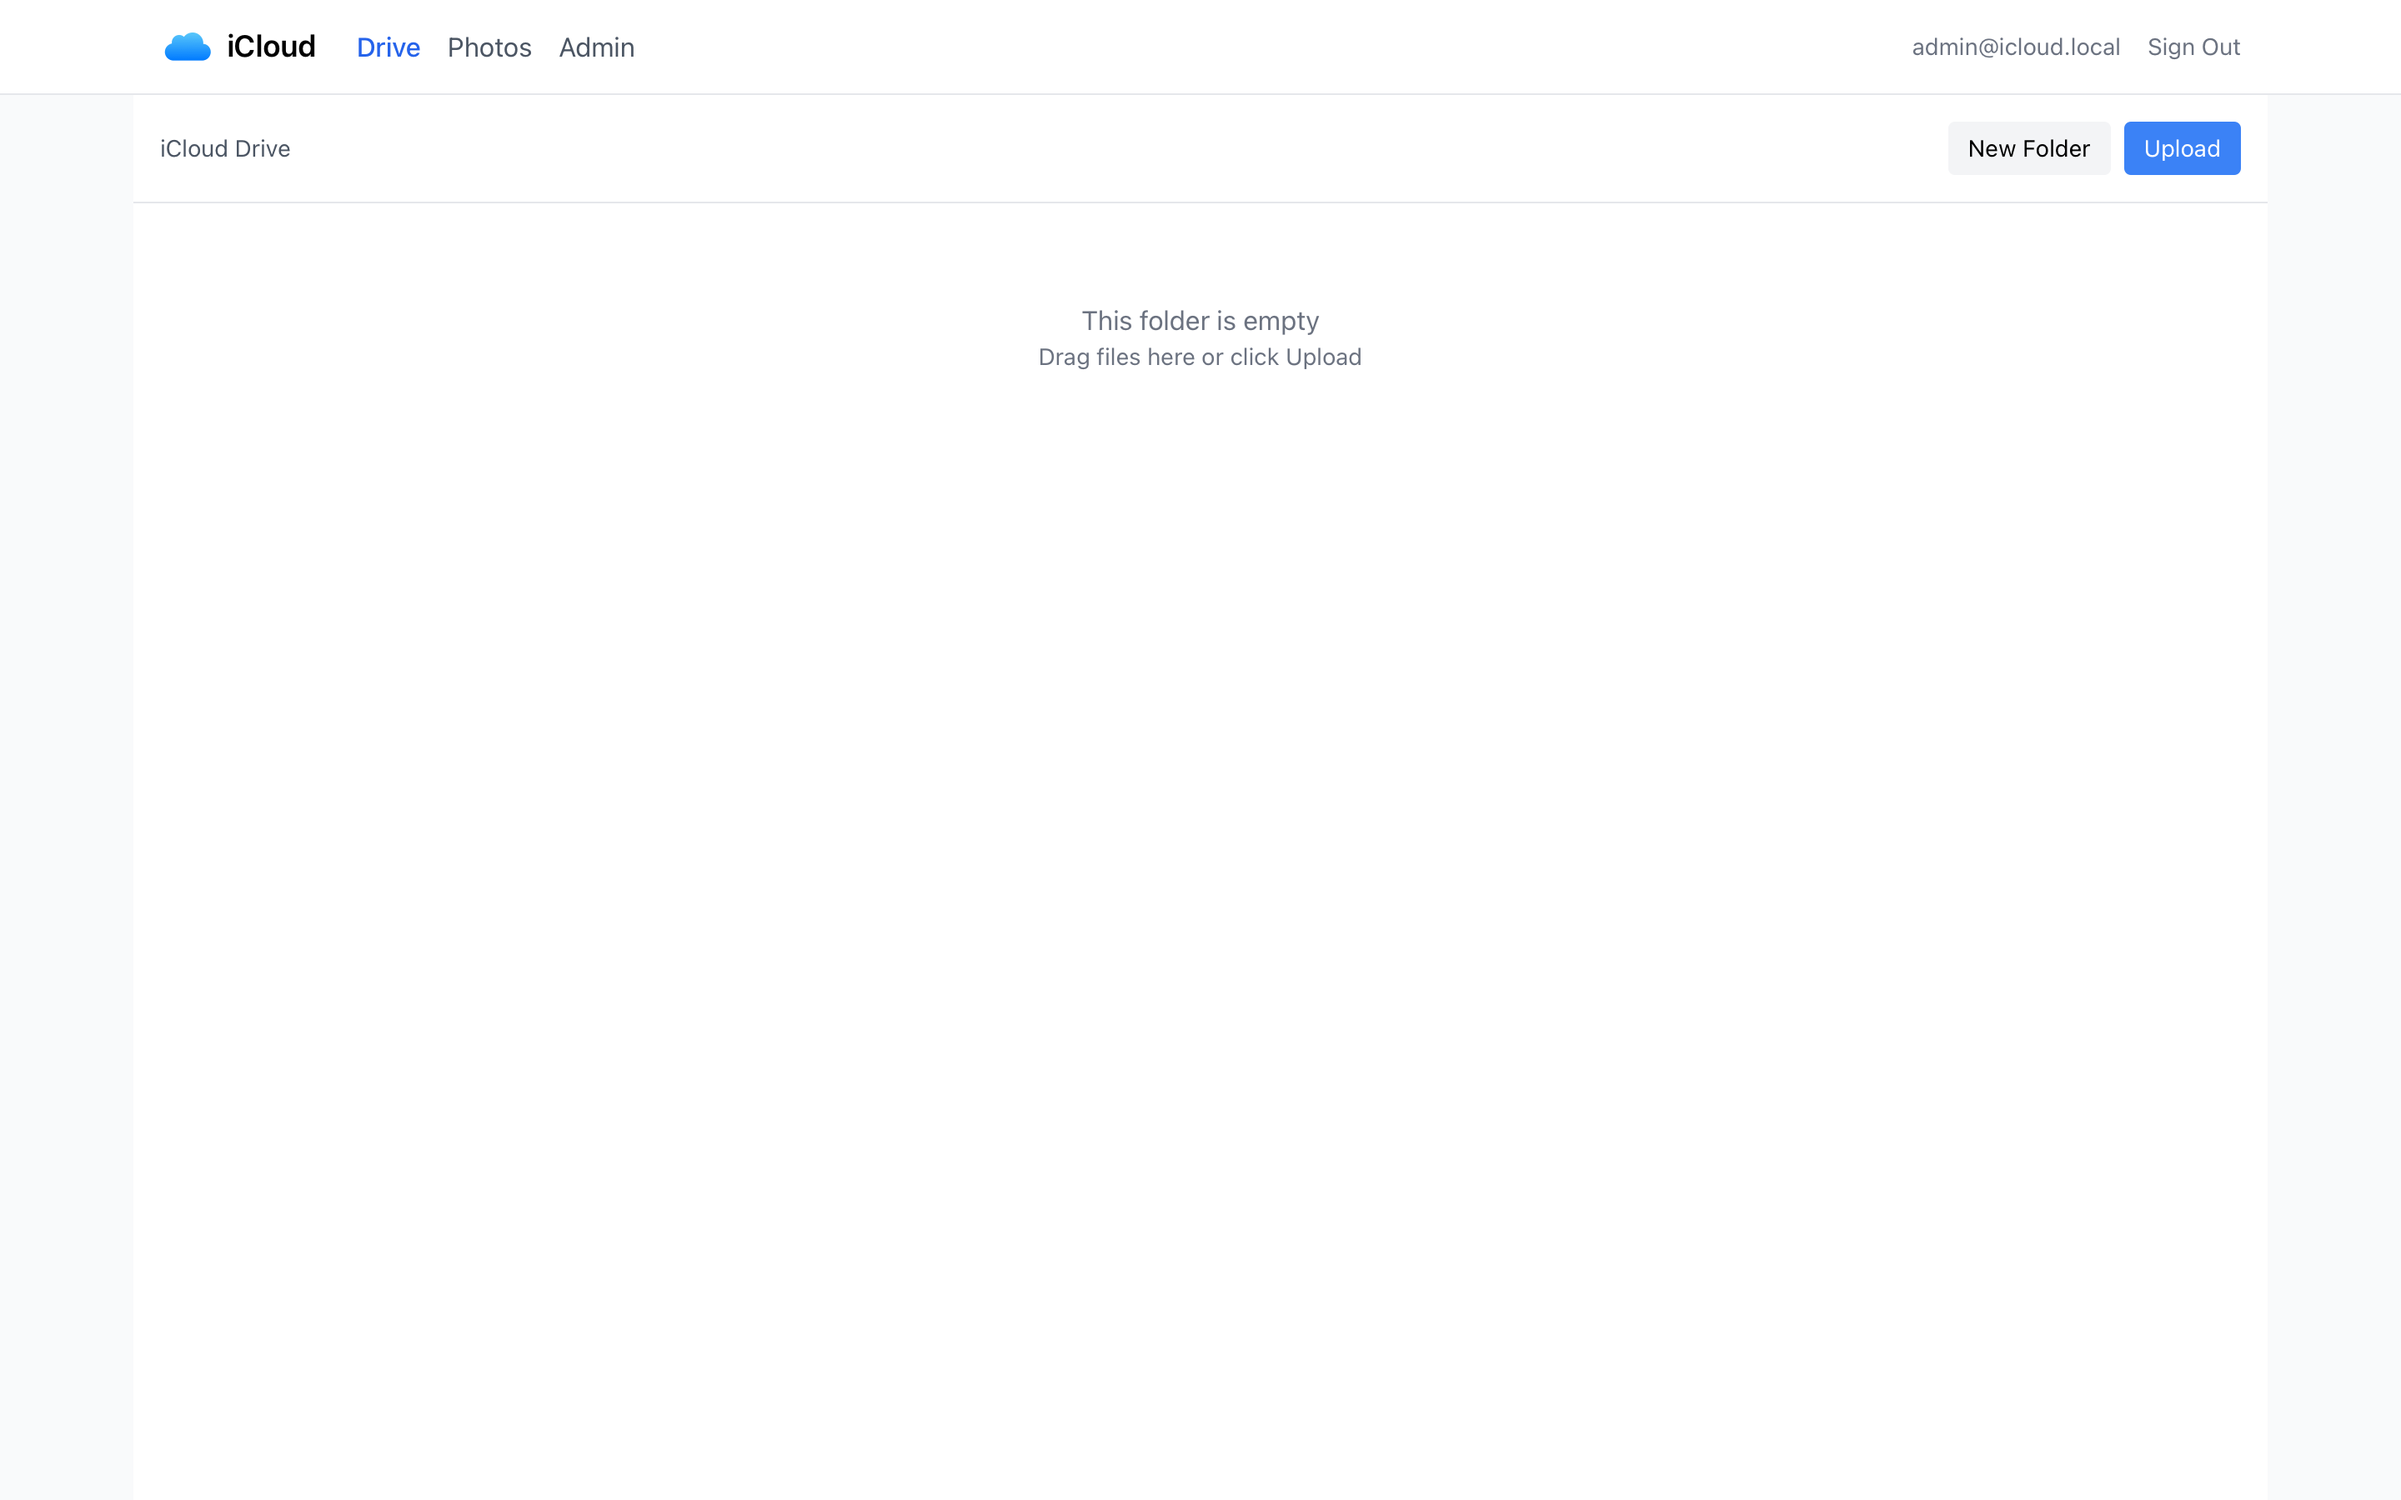
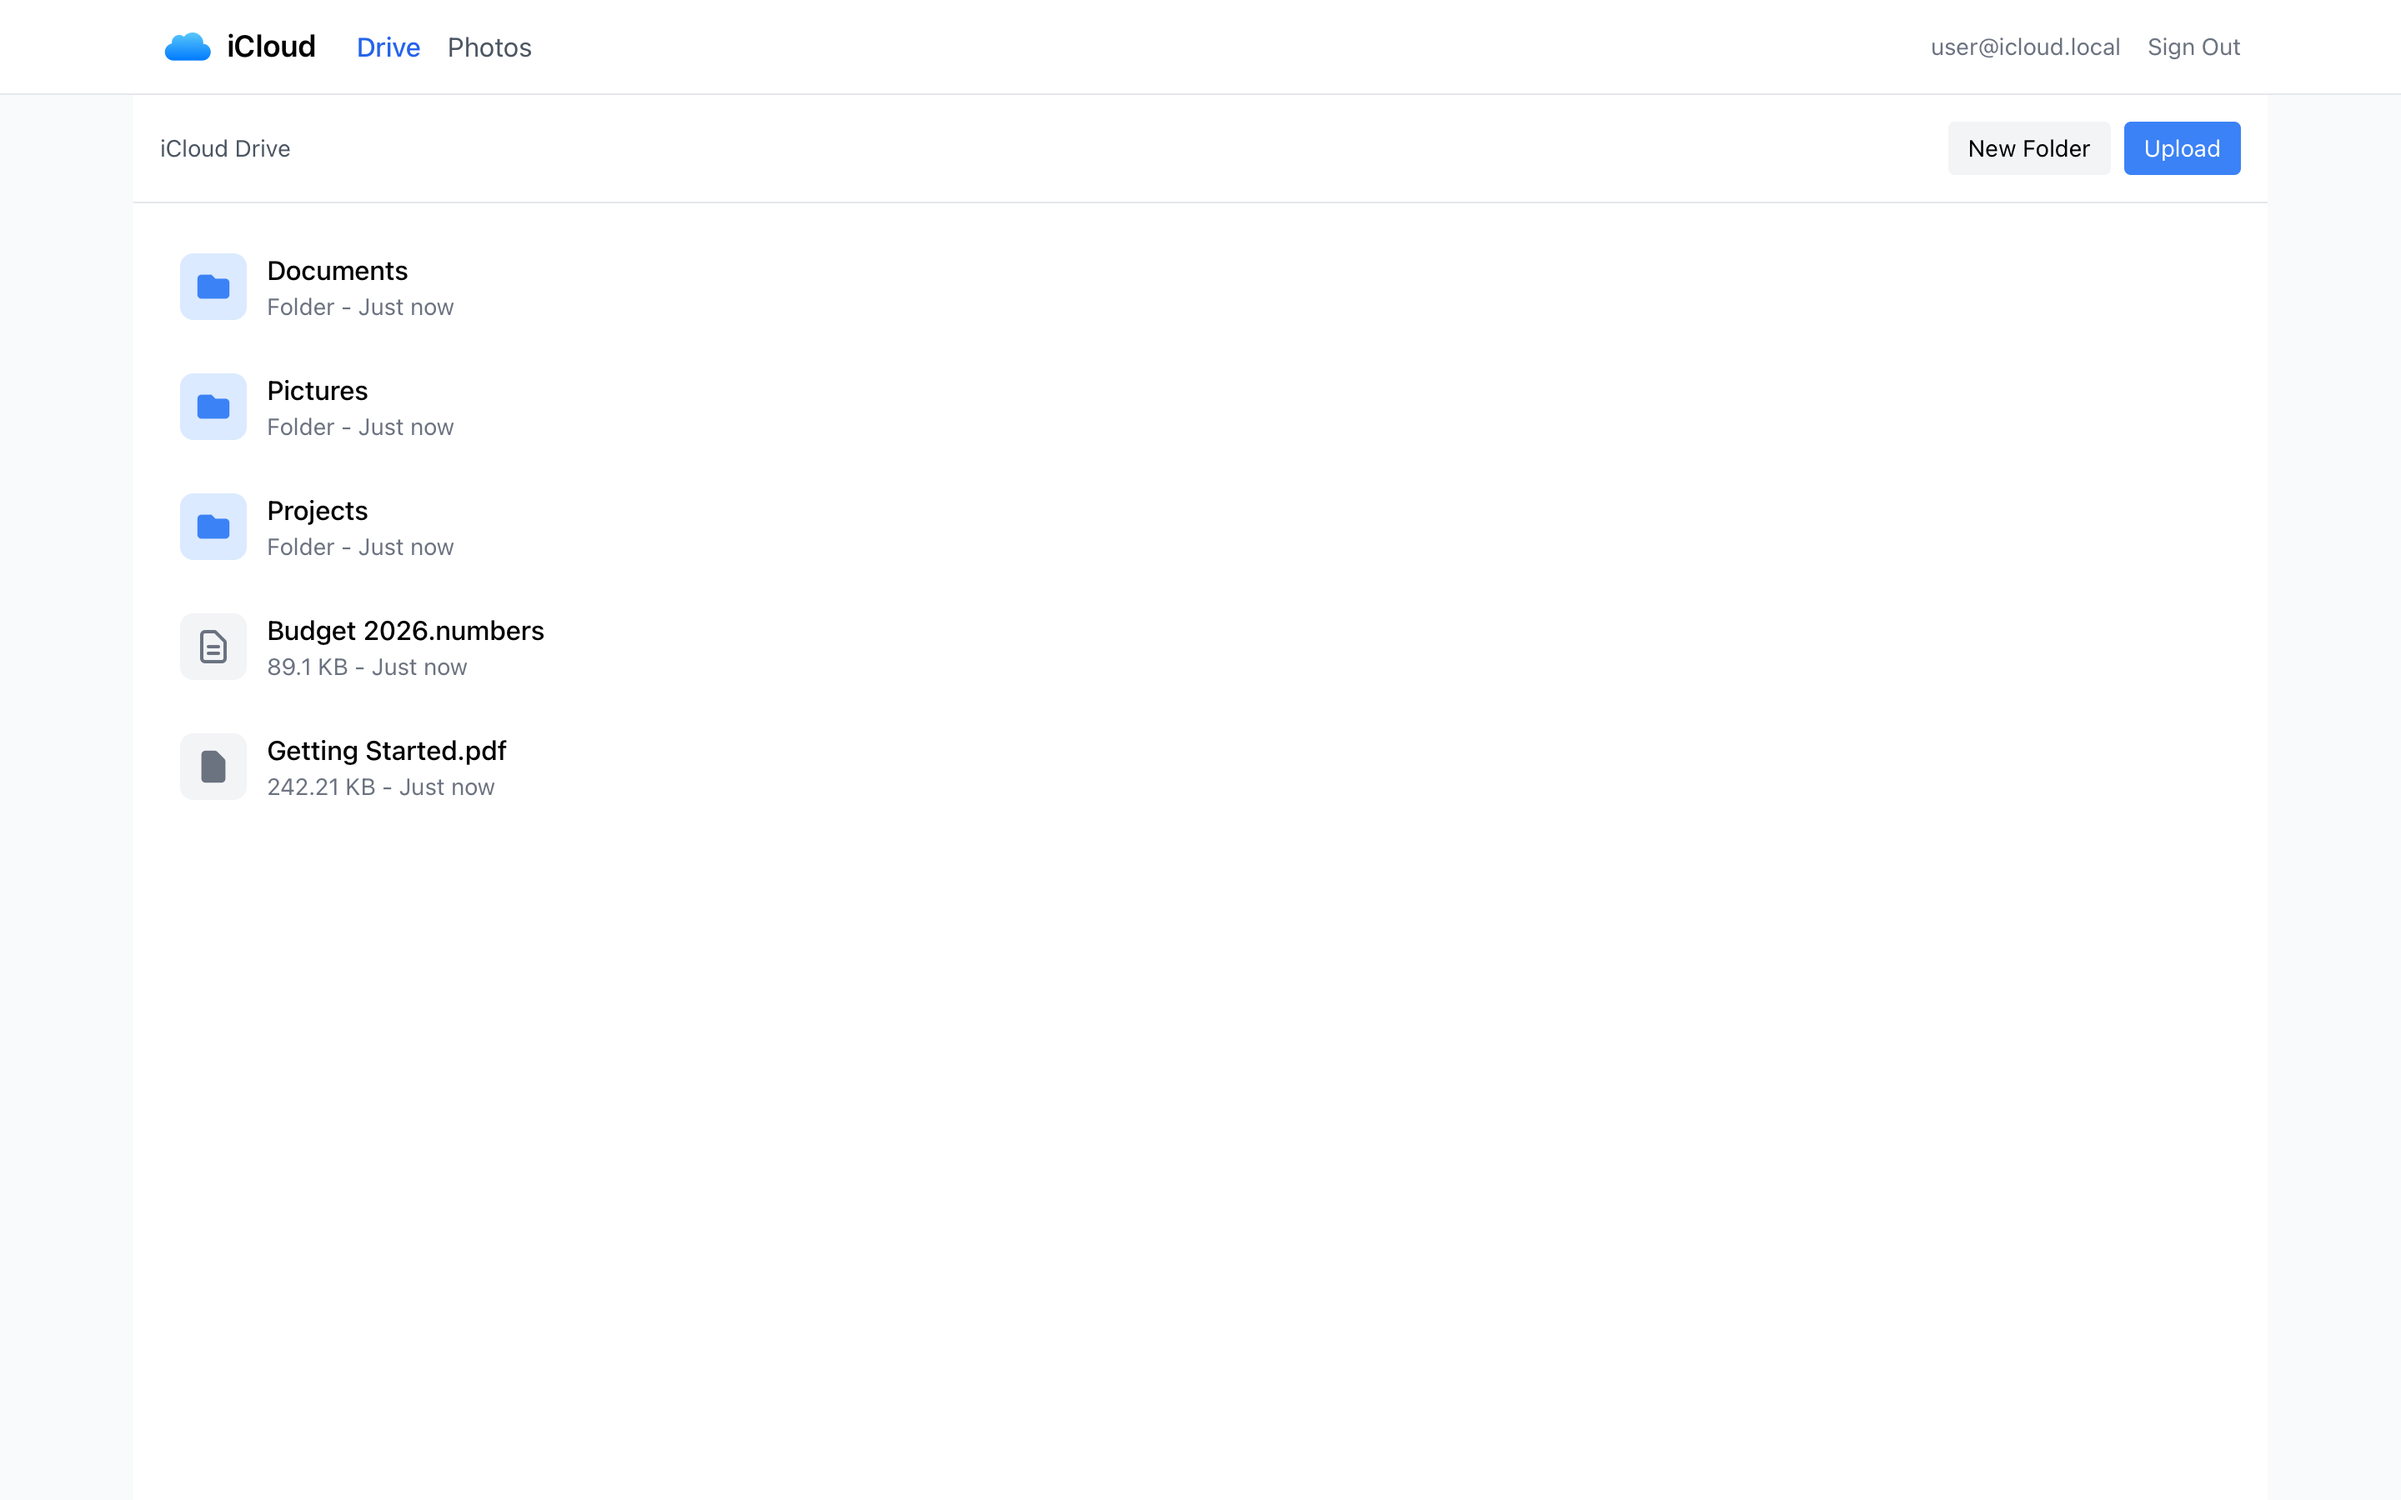
fixing more

diff --git a/icloud/backend/src/db/seed-photos.ts b/icloud/backend/src/db/seed-photos.ts
@@ -1,0 +1,139 @@
+/**
+ * Seeds a real photo library for the demo user.
+ *
+ * Photos can't be seeded from SQL alone: the API streams thumbnails/previews out
+ * of MinIO by object key, so a row whose `thumbnail_key` is an external URL just
+ * produces "Object name contains unsupported characters" and an empty grid. This
+ * seeder therefore does what an actual upload does — fetch the image bytes, run
+ * sharp to produce the 200x200 thumbnail and 1024x1024 preview, put all three
+ * derivatives in MinIO, and only then insert the row.
+ *
+ * Run with: npm run db:seed:photos
+ */
+import { randomUUID } from 'crypto';
+import fs from 'fs';
+import path from 'path';
+import { fileURLToPath } from 'url';
+import sharp from 'sharp';
+import { pool, minioClient } from '../db.js';
+
+const __dirname = path.dirname(fileURLToPath(import.meta.url));
+
+/**
+ * Applies the base SQL seed (users, folders, files) before seeding photos.
+ * Kept as one `db:seed` entry point because photos require MinIO objects and
+ * therefore cannot live in the .sql file — the harness runs a single seed step.
+ */
+async function applyBaseSeed(): Promise<void> {
+  const sqlPath = path.resolve(__dirname, '../../db-seed/base.sql');
+  if (!fs.existsSync(sqlPath)) {
+    console.warn('base.sql not found, skipping base seed');
+    return;
+  }
+  await pool.query(fs.readFileSync(sqlPath, 'utf-8'));
+  console.log('Base seed applied (users, folders, files).');
+}
+
+const PHOTOS_BUCKET = 'icloud-photos';
+const THUMBNAILS_BUCKET = 'icloud-thumbnails';
+
+/** Demo user that owns the seeded library (matches db-seed/seed.sql). */
+const USER_ID = 'b1ffcc00-0d1c-5f09-cc7e-7cc0ce491b22';
+
+interface SeedPhoto {
+  url: string;
+  daysAgo: number;
+  lat: number;
+  lng: number;
+  favorite: boolean;
+}
+
+const PHOTOS: SeedPhoto[] = [
+  { url: 'https://images.unsplash.com/photo-1506905925346-21bda4d32df4?w=1600', daysAgo: 2, lat: 46.5, lng: 8.0, favorite: true },
+  { url: 'https://images.unsplash.com/photo-1519681393784-d120267933ba?w=1600', daysAgo: 5, lat: 46.6, lng: 8.1, favorite: false },
+  { url: 'https://images.unsplash.com/photo-1439066615861-d1af74d74000?w=1600', daysAgo: 9, lat: 47.0, lng: 8.4, favorite: true },
+  { url: 'https://images.unsplash.com/photo-1441974231531-c6227db76b6e?w=1600', daysAgo: 14, lat: 45.9, lng: 7.7, favorite: false },
+  { url: 'https://images.unsplash.com/photo-1470071459604-3b5ec3a7fe05?w=1600', daysAgo: 21, lat: 46.2, lng: 7.9, favorite: false },
+  { url: 'https://images.unsplash.com/photo-1501785888041-af3ef285b470?w=1600', daysAgo: 30, lat: 46.8, lng: 8.3, favorite: true },
+  { url: 'https://images.unsplash.com/photo-1472214103451-9374bd1c798e?w=1600', daysAgo: 45, lat: 47.2, lng: 8.6, favorite: false },
+  { url: 'https://images.unsplash.com/photo-1418065460487-3e41a6c84dc5?w=1600', daysAgo: 60, lat: 46.4, lng: 7.5, favorite: false },
+  { url: 'https://images.unsplash.com/photo-1447752875215-b2761acb3c5d?w=1600', daysAgo: 75, lat: 46.1, lng: 8.2, favorite: false },
+  { url: 'https://images.unsplash.com/photo-1426604966848-d7adac402bff?w=1600', daysAgo: 90, lat: 45.7, lng: 7.3, favorite: true },
+  { url: 'https://images.unsplash.com/photo-1475924156734-496f6cac6ec1?w=1600', daysAgo: 110, lat: 46.9, lng: 8.8, favorite: false },
+  { url: 'https://images.unsplash.com/photo-1470252649378-9c29740c9fa8?w=1600', daysAgo: 130, lat: 46.3, lng: 7.8, favorite: false },
+];
+
+async function ensureBucket(name: string): Promise<void> {
+  if (!(await minioClient.bucketExists(name))) {
+    await minioClient.makeBucket(name, 'us-east-1');
+  }
+}
+
+async function seedPhotos(): Promise<void> {
+  const existing = await pool.query('SELECT 1 FROM photos WHERE user_id = $1 LIMIT 1', [USER_ID]);
+  if ((existing.rowCount ?? 0) > 0) {
+    console.log('Photos already seeded, skipping.');
+    return;
+  }
+
+  await ensureBucket(PHOTOS_BUCKET);
+  await ensureBucket(THUMBNAILS_BUCKET);
+
+  let seeded = 0;
+  for (const p of PHOTOS) {
+    try {
+      const res = await fetch(p.url);
+      if (!res.ok) {
+        console.warn(`  fetch failed (${res.status}) for ${p.url}`);
+        continue;
+      }
+      const original = Buffer.from(await res.arrayBuffer());
+
+      // Same derivative sizes the upload route produces.
+      const thumbnail = await sharp(original).resize(200, 200, { fit: 'cover' }).jpeg({ quality: 80 }).toBuffer();
+      const preview = await sharp(original).resize(1024, 1024, { fit: 'inside' }).jpeg({ quality: 85 }).toBuffer();
+      const meta = await sharp(original).metadata();
+
+      const photoId = randomUUID();
+      const fullResKey = `full/${USER_ID}/${photoId}`;
+      const thumbnailKey = `thumb/${USER_ID}/${photoId}`;
+      const previewKey = `preview/${USER_ID}/${photoId}`;
+
+      await minioClient.putObject(PHOTOS_BUCKET, fullResKey, original, original.length, {
+        'Content-Type': 'image/jpeg',
+      });
+      await minioClient.putObject(THUMBNAILS_BUCKET, thumbnailKey, thumbnail, thumbnail.length, {
+        'Content-Type': 'image/jpeg',
+      });
+      await minioClient.putObject(THUMBNAILS_BUCKET, previewKey, preview, preview.length, {
+        'Content-Type': 'image/jpeg',
+      });
+
+      await pool.query(
+        `INSERT INTO photos (id, user_id, original_hash, thumbnail_key, preview_key, full_res_key,
+                             width, height, taken_at, location_lat, location_lng,
+                             camera_make, camera_model, is_favorite)
+         VALUES ($1, $2, $3, $4, $5, $6, $7, $8, NOW() - ($9 || ' days')::interval, $10, $11,
+                 'Apple', 'iPhone 15 Pro', $12)`,
+        [
+          photoId, USER_ID, photoId, thumbnailKey, previewKey, fullResKey,
+          meta.width ?? 1600, meta.height ?? 1200, p.daysAgo, p.lat, p.lng, p.favorite,
+        ]
+      );
+      seeded++;
+    } catch (err) {
+      console.warn(`  skipping ${p.url}: ${(err as Error).message}`);
+    }
+  }
+
+  console.log(`Seeded ${seeded} photos with MinIO derivatives.`);
+}
+
+applyBaseSeed()
+  .then(seedPhotos)
+  .then(() => pool.end())
+  .catch((err) => {
+    console.error('Photo seeding failed:', err);
+    pool.end();
+    process.exit(1);
+  });

diff --git a/imessage/frontend/src/components/ChatView.tsx b/imessage/frontend/src/components/ChatView.tsx
@@ -1,5 +1,5 @@
 import { useState, useRef, useEffect, useCallback } from 'react';
-import type { Conversation, Message } from '@/types';
+import type { Conversation, Message, TypingUser } from '@/types';
 import { useChatStore } from '@/stores/chatStore';
 import { useAuthStore } from '@/stores/authStore';
 import { MessageBubble } from './MessageBubble';
@@ -8,6 +8,12 @@ import { TypingIndicator } from './TypingIndicator';
 /**
  * Props for the ChatView component.
  */
+// Stable empty fallbacks shared by every render. Returning a literal `[]` from a
+// Zustand selector allocates a new reference each call and causes an infinite
+// re-render loop (see the selectors below).
+const EMPTY_MESSAGES: Message[] = [];
+const EMPTY_TYPING: TypingUser[] = [];
+
 interface ChatViewProps {
   /** The conversation to display messages for */
   conversation: Conversation;
@@ -30,8 +36,15 @@ export function ChatView({ conversation }: ChatViewProps) {
   const typingTimeoutRef = useRef<ReturnType<typeof setTimeout>>(undefined);
 
   const user = useAuthStore((state) => state.user);
-  const messages = useChatStore((state) => state.messages.get(conversation.id) || []);
-  const typingUsers = useChatStore((state) => state.typingUsers.get(conversation.id) || []);
+  // NOTE: these selectors must not build a new value per call. `xs.get(id) || []`
+  // allocates a fresh array every time the selector runs whenever the key is
+  // missing, so Zustand's snapshot comparison never sees a stable reference,
+  // re-renders, re-runs the selector, and React aborts with
+  // "Maximum update depth exceeded" — which crashed the whole chat view as soon
+  // as a conversation was opened. Falling back to shared frozen constants keeps
+  // the reference identical across calls.
+  const messages = useChatStore((state) => state.messages.get(conversation.id) ?? EMPTY_MESSAGES);
+  const typingUsers = useChatStore((state) => state.typingUsers.get(conversation.id) ?? EMPTY_TYPING);
   const sendMessage = useChatStore((state) => state.sendMessage);
   const setTypingIndicator = useChatStore((state) => state.setTyping);
   const isLoadingMessages = useChatStore((state) => state.isLoadingMessages);
